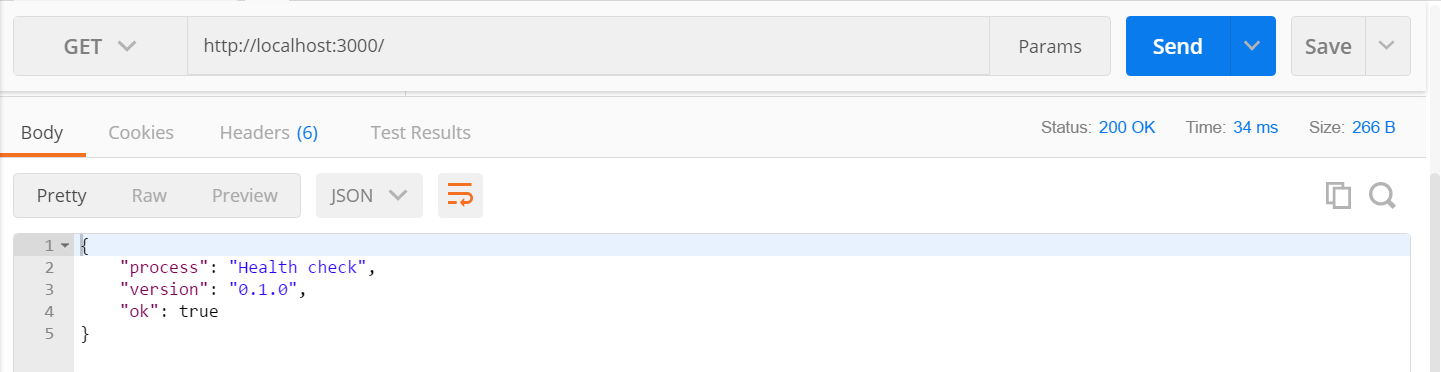
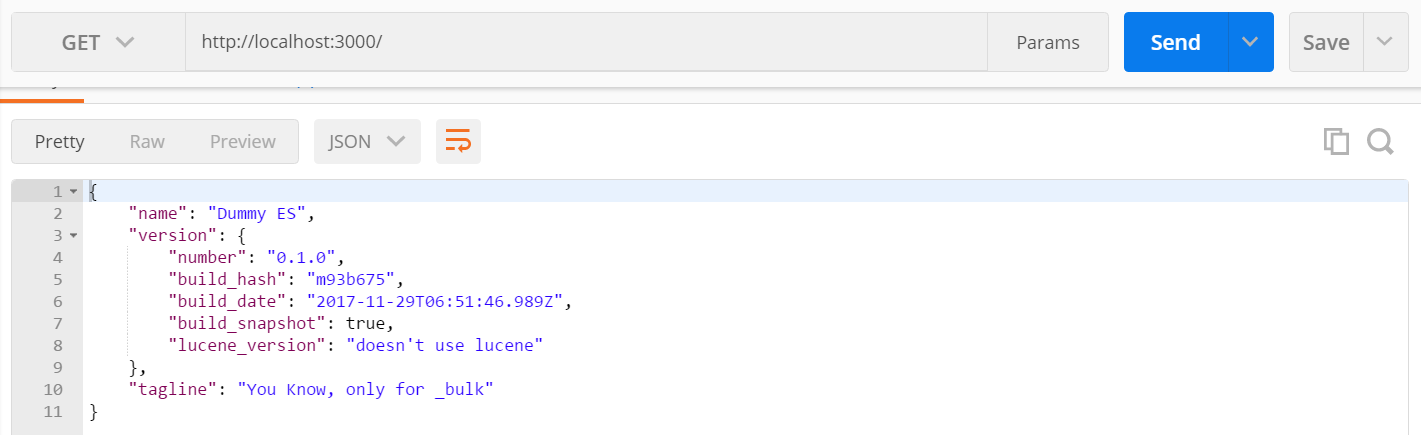
update with new health check information

diff --git a/README.md b/README.md
@@ -54,7 +54,7 @@ Method should be POST and url will depend on the config. However, the default wo
 
 The acceptable Content-Types header are
 
-* application/json
+* application/x-ndjson
 * text/plain
 
 ![alt text](screenshots/setting_content_type.png "Defining Content-Type header")
@@ -158,16 +158,20 @@ response should look like following
 
 ## Health check
 
-This app has health check utility for making sure that the service is running via GET and POST method on / path. the request send should return
+This app has health check utility for making sure that the service is running via GET method on / path. the request send should return
 
 ```json
 {
-    "process": "Health check",
-    "version": "0.1.0",
-    "ok": true
+    "name": "Dummy ES",
+    "version": {
+        "number": "0.1.0",
+        "build_hash": "m93b675",
+        "build_date": "2017-11-29T06:51:46.989Z",
+        "build_snapshot": true,
+        "lucene_version": "doesn't use lucene"
+    },
+    "tagline": "You Know, only for _bulk"
 }
 ```
 
 ![alt text](screenshots/get_health_check.png "GET health check")
-
-![alt text](screenshots/post_health_check.png "POST health check")
